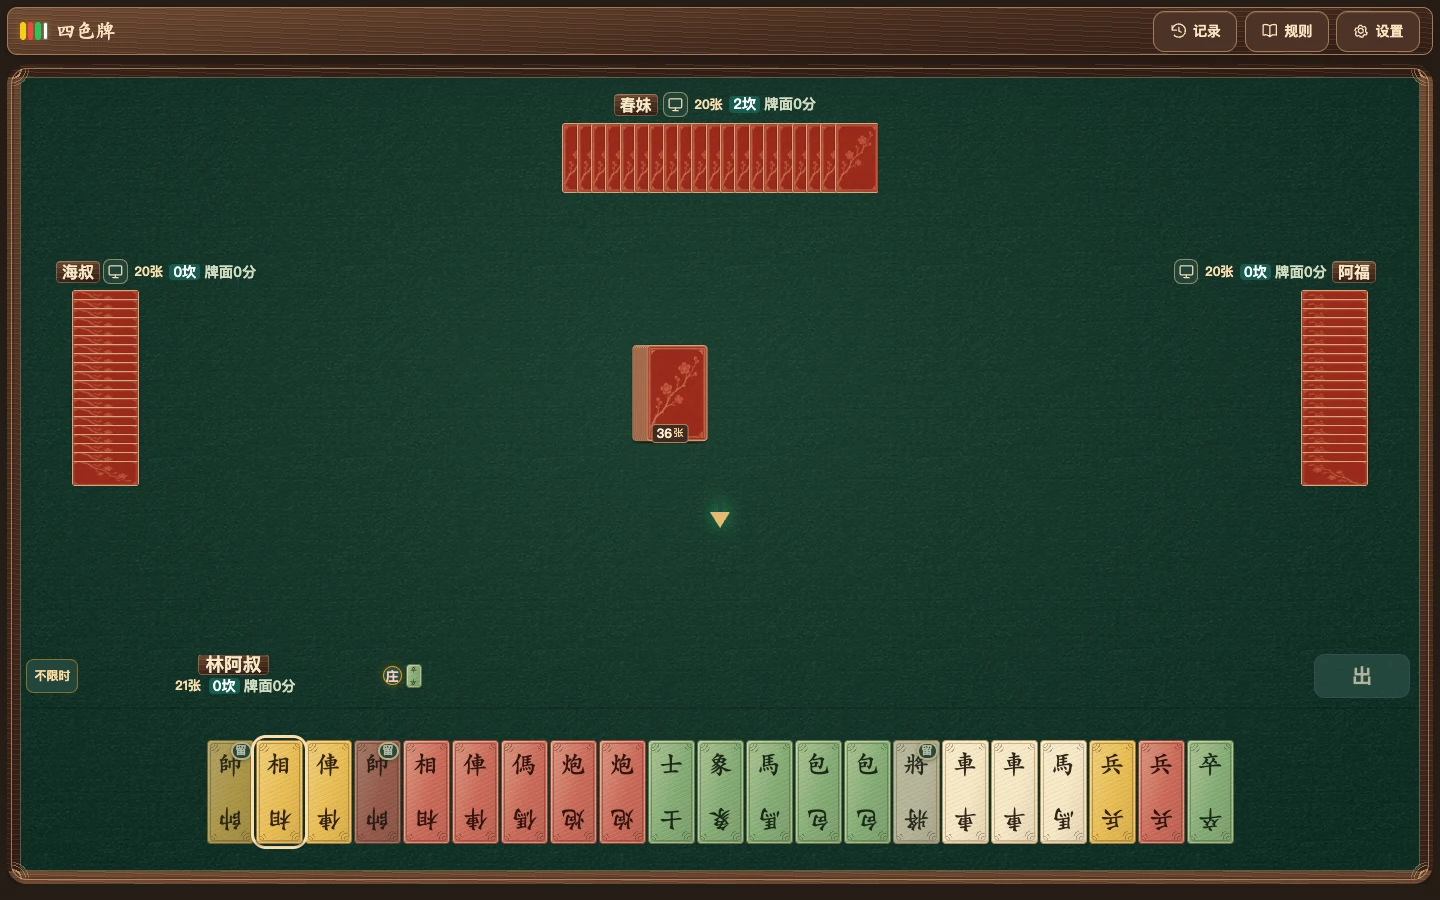
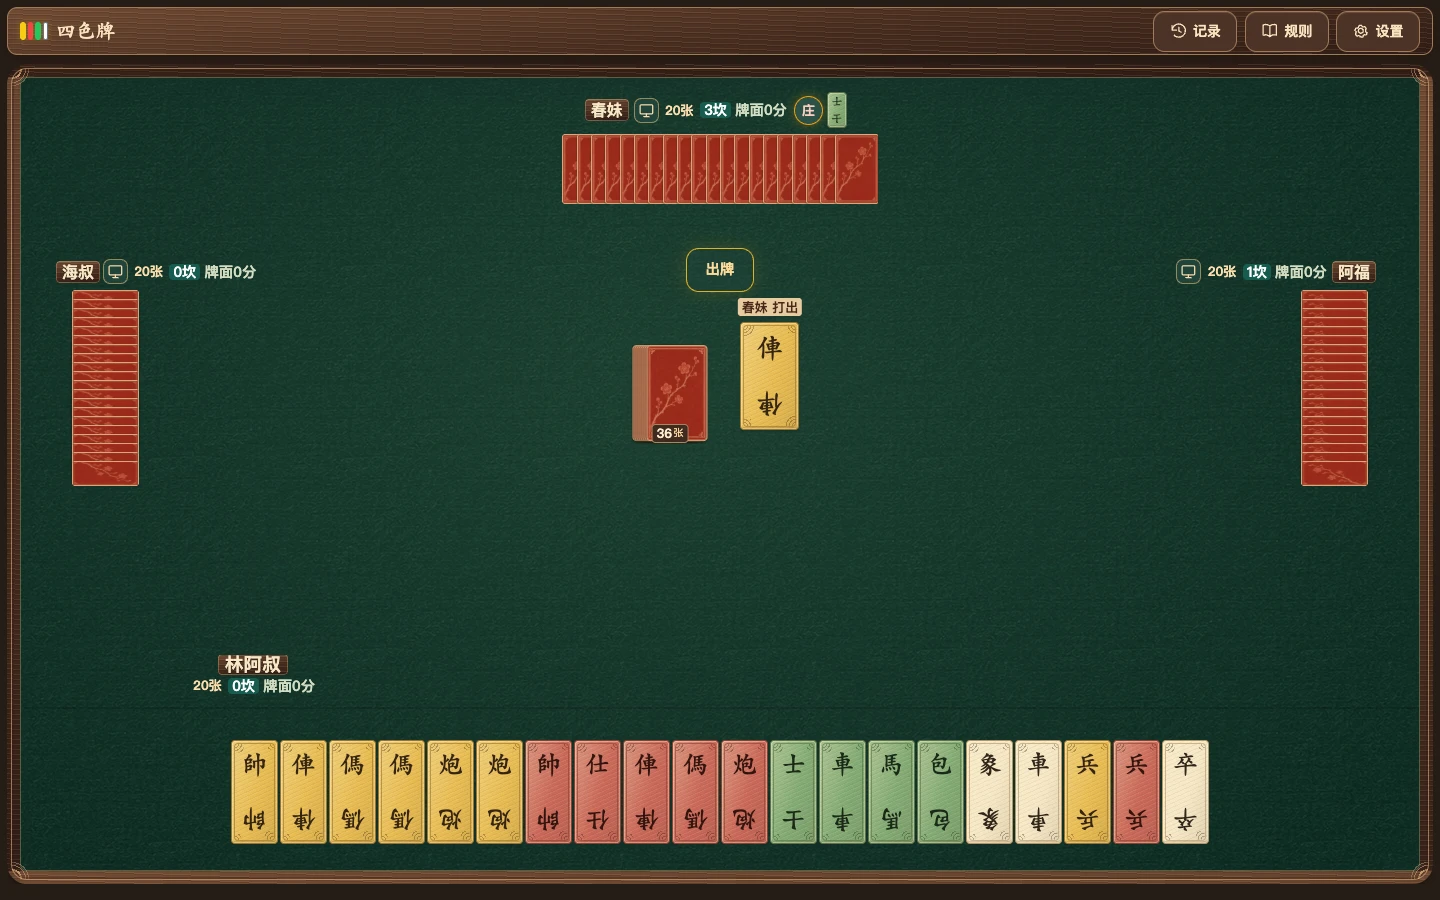
docs(cards): show the five red ranks on the actual mobile table

diff --git a/docs/validation/table-fidelity/README.md b/docs/validation/table-fidelity/README.md
@@ -6,7 +6,7 @@
 
 ## 自然发牌的手机中盘
 
-用 844 × 390 的 Chrome 从普通练习入口开始一局随机发牌，以练习引擎的合法机器人决策推进，无牌面或牌数注入。截图时有两家对手已经成组，四条流水合计五张，自己手中十七张。旁观吃牌的张数变化另用好友房验证。
+用 844 × 390 的 Chrome 从普通练习入口开始一局随机发牌，以练习引擎的合法机器人决策推进，无牌面或牌数注入。截图时有两家对手已经成组，三处流水合计四张，自己手中十七张。旁观吃牌的张数变化另用好友房验证。
 
 ![手机横屏自然发牌中盘](practice-midgame-844x390.webp)
 
@@ -36,3 +36,9 @@
 从 844 × 390 的 Chrome 练习桌截取当前来牌白卒并放大。左边保留截图原向，右边将同一张截图转动 180°。两端字形各自居中，牌面中央留白。小到容不下两字的公共牌缩略图显示一个牌名。
 
 ![实装白卒原向与半转对照](paper-card-half-turn.webp)
+
+## 五张金条的牌色
+
+在 844 × 390 测试桌上把公、侯、伯、子、男放进同一手牌。下图截自莆仙纸牌馆的实装长牌。四套皮肤各自复用普通红牌的纸色、边色和墨色，开启颜色辅助后显示「红」。牌局仍按金条分组和计分。
+
+![五张红色金条实装手牌](five-red-nobles.webp)
